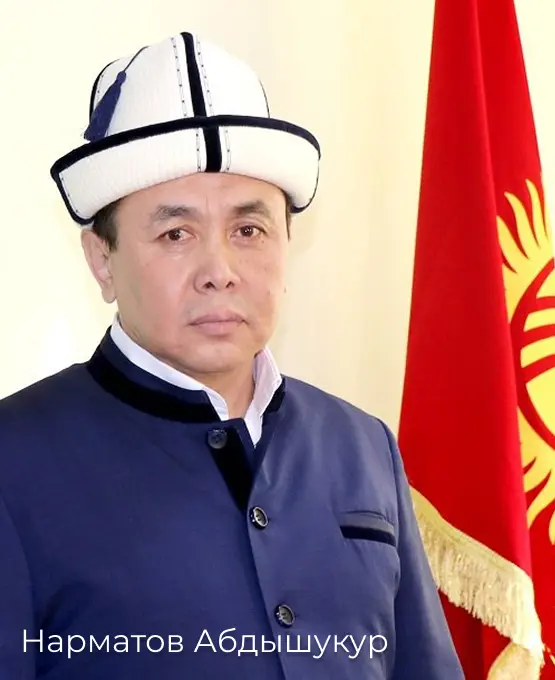
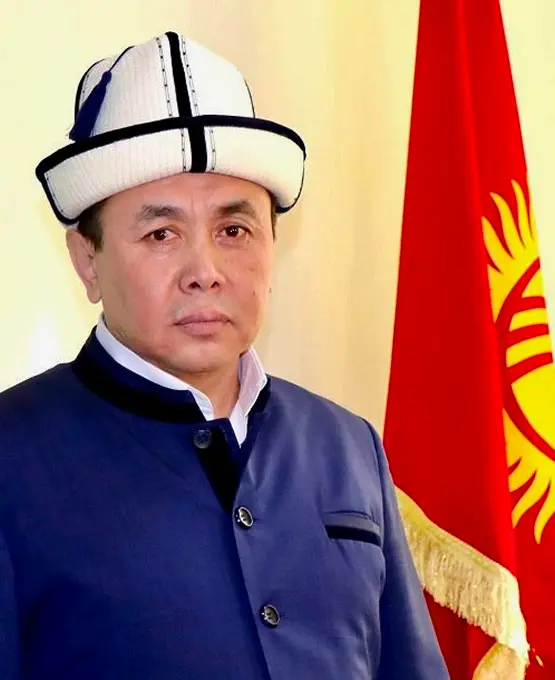
save

diff --git a/src/widgets/landing/ui/rector/index.tsx b/src/widgets/landing/ui/rector/index.tsx
@@ -1,0 +1,36 @@
+import Image from "next/image";
+import { useTranslations } from "next-intl";
+
+export const Rector = () => {
+  const t = useTranslations("Rector");
+
+  return (
+    <section
+      aria-labelledby="rector-title"
+      className="max-w-400 m-auto mt-30 px-5 md:flex md:justify-between md:gap-10 md:px-10"
+    >
+      <Image
+        src="/images/rector.webp"
+        alt={t("imageAlt")}
+        className="h-auto w-full md:h-170 md:w-138.75"
+        width={555}
+        height={680}
+        sizes="555px"
+      />
+
+      <div className="mt-8 md:mt-0">
+        <h2 id="rector-title" className="text-3xl md:text-6xl font-bold">
+          {t("title")}
+        </h2>
+
+        <p className="mt-3 text-xl font-semibold md:mt-4 md:text-3xl">
+          {t("name")}
+        </p>
+
+        <p className="mt-5 text-base leading-7 md:mt-8 md:text-2xl md:leading-10">
+          {t("message")}
+        </p>
+      </div>
+    </section>
+  );
+};

diff --git a/src/app/[locale]/page.tsx b/src/app/[locale]/page.tsx
@@ -1,6 +1,7 @@
 import { AboutUs } from "@/widgets/landing/ui/about-us";
 import { Departments } from "@/widgets/landing/ui/departments";
 import { Intro } from "@/widgets/landing/ui/intro";
+import { Rector } from "@/widgets/landing/ui/rector";
 import { Statistics } from "@/widgets/landing/ui/statistics";
 import { Header } from "@/widgets/layout/ui/header";
 import { Navbar } from "@/widgets/layout/ui/navbar";
@@ -14,6 +15,7 @@ const Home = () => {
       <AboutUs />
       <Departments />
       <Statistics />
+      <Rector />
     </main>
   );
 };

diff --git a/src/widgets/layout/ui/navbar/index.tsx b/src/widgets/layout/ui/navbar/index.tsx
@@ -9,7 +9,7 @@ export const Navbar = () => {
   const t = useTranslations("Navbar");
 
   return (
-    <nav className="sticky top-0 z-10 hidden bg-[#004C97] md:block">
+    <nav className="sticky top-0 z-20 hidden bg-[#004C97] md:block">
       <ul className="max-w-400 m-auto flex items-center justify-evenly gap-5 px-10 text-xs font-semibold text-white lg:text-lg">
         {NAVBAR_LINKS.map(({ href, labelKey, links }) => (
           <li
